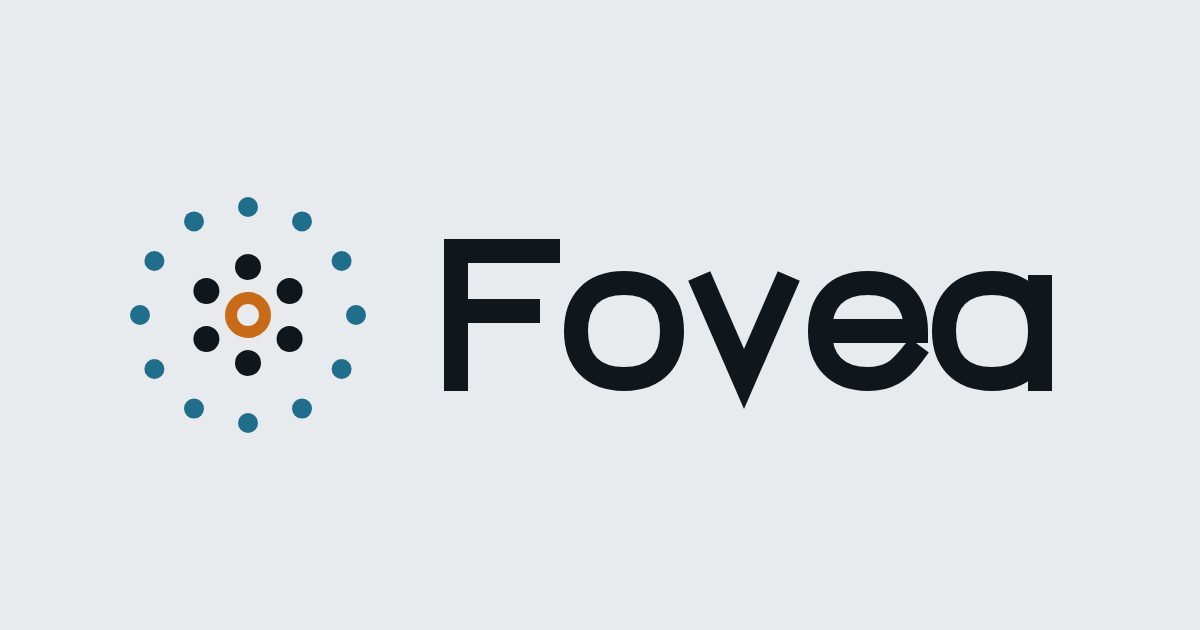
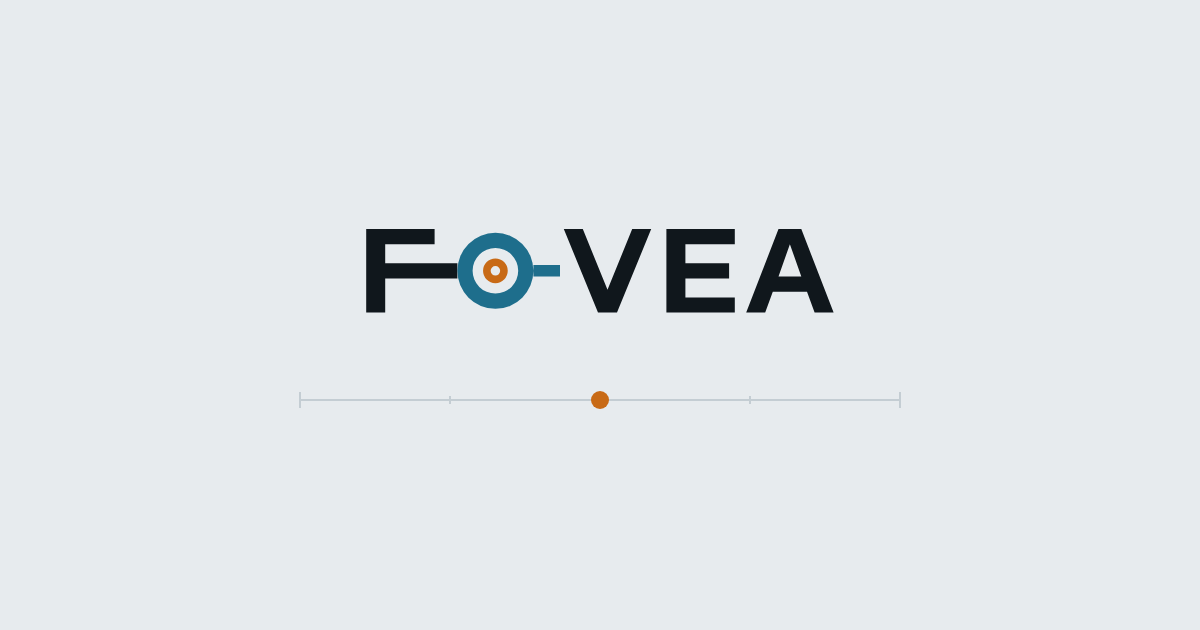
識別 v2、Android 下載卡
字標的 O 就是鏡頭。加入 Android app 的下載入口，並改掉
「正在送商店審核」那句——APK 是直接提供的，不是在等審核。

diff --git a/index.html b/index.html
@@ -93,9 +93,9 @@ a { color: inherit; }
   border-bottom: 1px solid var(--rule-2);
 }
 .top .wrap { display: flex; align-items: center; justify-content: space-between; height: 62px; }
-.logo { display: flex; align-items: center; gap: 10px; text-decoration: none; }
-.logo svg { width: 24px; height: 24px; display: block; }
-.logo b { font: 600 16px/1 "Bahnschrift", "DIN Alternate", sans-serif; letter-spacing: .2em; }
+/* 字標本身就含名稱，不需要另外放文字——那會變成同一個名字出現兩次 */
+.logo { display: flex; align-items: center; text-decoration: none; }
+.logo svg { width: 106px; height: 26px; display: block; }
 
 /* ---------------------------------------------------------- 按鈕 -- */
 
@@ -289,17 +289,14 @@ footer a:hover { color: var(--amber); border-color: var(--amber); }
 
 <header class="top">
   <div class="wrap">
-    <a class="logo" href="#">
-      <svg viewBox="0 0 108 108" aria-hidden="true">
-        <g fill="currentColor">
-          <circle cx="54" cy="32" r="6"/><circle cx="73" cy="43" r="6"/>
-          <circle cx="73" cy="65" r="6"/><circle cx="54" cy="76" r="6"/>
-          <circle cx="35" cy="65" r="6"/><circle cx="35" cy="43" r="6"/>
-        </g>
-        <path fill="#B65B0C" fill-rule="evenodd"
-              d="M64 54a10 10 0 1 1-20 0 10 10 0 1 1 20 0ZM58 54a4 4 0 1 0-8 0 4 4 0 1 0 8 0Z"/>
+    <a class="logo" href="#" aria-label="Fovea">
+      <!-- 取景框角 + 鏡片 + 焦點。字母的 O 就是鏡頭，兩者拆開就不成立。 -->
+      <svg viewBox="0 0 262 64" aria-hidden="true">
+        <path fill="currentColor" d="M8 54V10h36v8H18v10h38v8H18v18ZM112 10h10l13 32 13-32h10l-18 44h-10ZM166 10h36v8h-26v10h23v8h-23v10h26v8h-36Z"/>
+        <path fill="currentColor" fill-rule="evenodd" d="M208 54l17-44h12l17 44h-10l-4-11h-18l-4 11Zm17-19h12l-6-17Z"/>
+        <path fill="var(--signal)" fill-rule="evenodd" d="M96 32a20 20 0 1 1-40 0 20 20 0 1 1 40 0Zm-8 0a12 12 0 1 0-24 0 12 12 0 1 0 24 0Zm8-3h14v6H96Z"/>
+        <path fill="var(--amber)" fill-rule="evenodd" d="M82.5 32a6.5 6.5 0 1 1-13 0 6.5 6.5 0 1 1 13 0ZM78.5 32a2.5 2.5 0 1 0-5 0 2.5 2.5 0 1 0 5 0Z"/>
       </svg>
-      <b>FOVEA</b>
     </a>
     <a class="btn sm" href="#download">免費下載</a>
   </div>
@@ -454,12 +451,17 @@ footer a:hover { color: var(--amber); border-color: var(--amber); }
         <p>需要 OBS Studio 32 以上，Apple 晶片的 Mac。安裝說明在下載頁裡。</p>
         <a class="btn" href="https://github.com/open5588/fovea-releases/releases/latest">下載</a>
       </div>
+      <div class="dl-card">
+        <h3>Android App</h3>
+        <p>Android 8.0 以上。目前不在 Play 商店，安裝時手機會提示來自不明來源，要在設定裡允許。</p>
+        <a class="btn" href="https://github.com/open5588/fovea-releases/releases/latest">下載</a>
+      </div>
     </div>
 
     <p class="soon">
-      <b>手機 App 還在上架中。</b>
-      Android 版已經可以用，正在送商店審核；iOS 版還在開發。
-      想先試的話可以到下載頁看最新狀態。
+      <b>電腦端與手機端要用同一版。</b>
+      版本不同會直接拒絕連線並說明原因，不會將就運作。
+      <b>iOS 版還在開發中。</b>
     </p>
   </div>
 </section>
